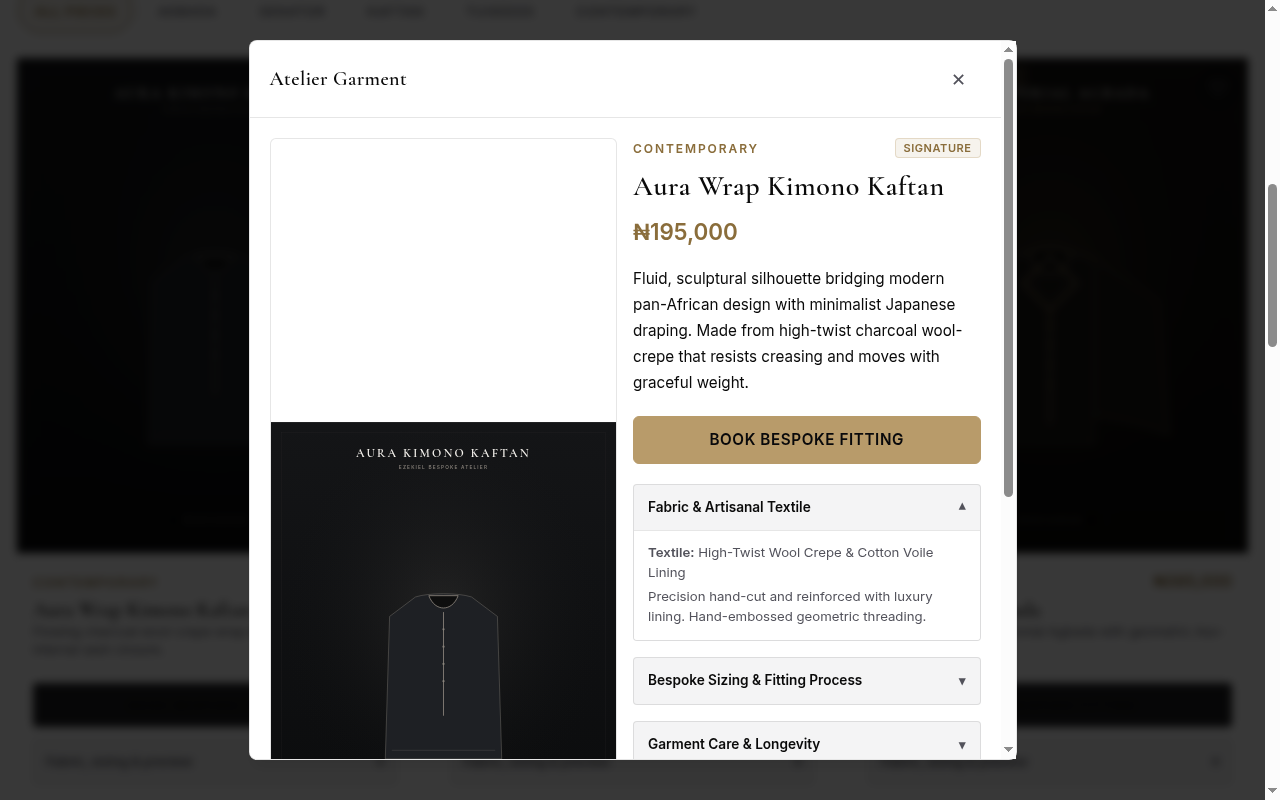
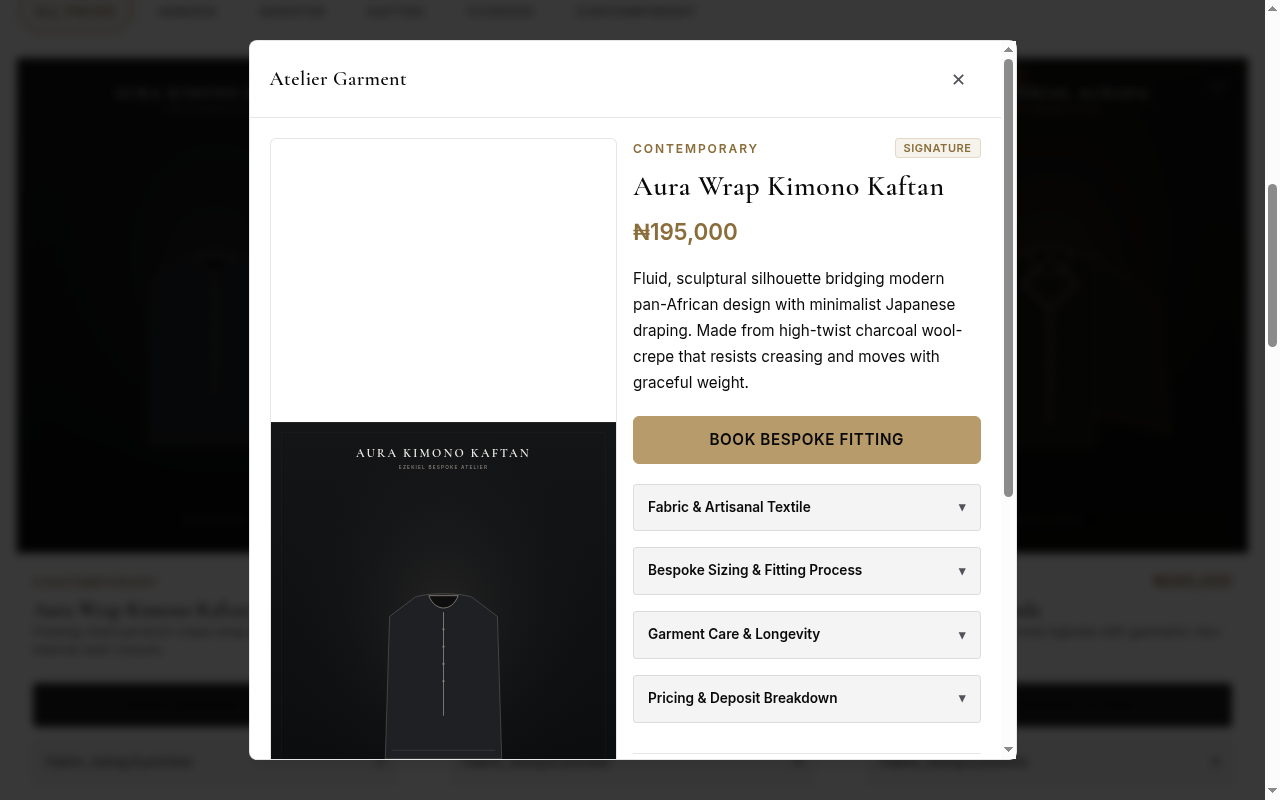
feat(ui): mobile-first progressive disclosure per Sanni review

Changed region(s): [[0.5, 0.6875, 0.7188, 0.8125], [0.5, 0.8438, 0.6875, 0.875], [0.5, 0.9062, 0.6562, 0.9375]]

diff --git a/admin.html b/admin.html
@@ -321,9 +321,31 @@
             </div>
           </details>
 
-          <button class="btn btn-primary btn-sm ui-btn ui-btn-primary ui-btn-sm" id="btnRecordManualOrder" onclick="document.getElementById('newOrderModal').classList.add('open')">
+          <!-- Desktop Record Order Button -->
+          <button class="btn btn-primary btn-sm ui-btn ui-btn-primary ui-btn-sm orders-desktop-action-btn" id="btnRecordManualOrder" onclick="document.getElementById('newOrderModal').classList.add('open')">
             + Record Manual Order
           </button>
+
+          <!-- Mobile Overflow Actions Disclosure -->
+          <details class="admin-actions-disclosure" id="orderActionsDisclosure">
+            <summary class="admin-actions-summary">
+              <svg width="15" height="15" viewBox="0 0 24 24" fill="none" stroke="currentColor" stroke-width="2">
+                <circle cx="12" cy="12" r="1.5"></circle>
+                <circle cx="19" cy="12" r="1.5"></circle>
+                <circle cx="5" cy="12" r="1.5"></circle>
+              </svg>
+              <span>Actions</span>
+              <span class="disclosure-arrow">▾</span>
+            </summary>
+            <div class="admin-actions-body">
+              <button type="button" class="btn btn-primary btn-sm ui-btn ui-btn-primary ui-btn-sm" style="width: 100%; min-height: 44px;" onclick="document.getElementById('newOrderModal').classList.add('open')">
+                + Record Manual Order
+              </button>
+              <button type="button" class="btn btn-outline btn-sm ui-btn ui-btn-outline ui-btn-sm" style="width: 100%; min-height: 44px;" onclick="document.getElementById('exportBackupBtn')?.click()">
+                Export Records JSON
+              </button>
+            </div>
+          </details>
         </div>
 
         <div class="ui-table-container">

diff --git a/src/styles/main.css b/src/styles/main.css
@@ -2079,7 +2079,44 @@ body.admin-body .orders-table tbody tr:hover {
   flex-wrap: wrap;
 }
 
+.admin-actions-disclosure {
+  display: inline-block;
+}
+
+.admin-actions-summary {
+  cursor: pointer;
+  display: inline-flex;
+  align-items: center;
+  gap: 8px;
+  padding: 0 16px;
+  min-height: 44px;
+  background: var(--card);
+  border: 1px solid var(--border);
+  border-radius: var(--radius);
+  font-size: 0.85rem;
+  font-weight: 500;
+  color: var(--foreground);
+  user-select: none;
+}
+
+.admin-actions-summary::marker,
+.admin-actions-summary::-webkit-details-marker {
+  display: none;
+}
+
+.admin-actions-body {
+  display: flex;
+  flex-direction: column;
+  gap: 8px;
+}
+
 @media (min-width: 769px) {
+  .admin-actions-disclosure {
+    display: none !important;
+  }
+  .orders-desktop-action-btn {
+    display: inline-flex !important;
+  }
   .admin-filters-disclosure[open],
   .admin-filters-disclosure {
     display: block;
@@ -2093,6 +2130,26 @@ body.admin-body .orders-table tbody tr:hover {
 }
 
 @media (max-width: 768px) {
+  .orders-desktop-action-btn {
+    display: none !important;
+  }
+  .admin-actions-disclosure {
+    display: block;
+    width: 100%;
+  }
+  .admin-actions-summary {
+    width: 100%;
+    justify-content: space-between;
+  }
+  .admin-actions-body {
+    width: 100%;
+    background: var(--secondary);
+    border: 1px solid var(--border);
+    border-radius: var(--radius);
+    padding: 12px;
+    margin-top: 8px;
+    box-sizing: border-box;
+  }
   .admin-filters-disclosure {
     width: 100%;
   }

diff --git a/src/public/app.js b/src/public/app.js
@@ -657,7 +657,7 @@ function openDetailModal(design) {
 
           <!-- Progressive Disclosure Accordions: Sizing, Fabric, Care & Pricing Breakdowns -->
           <div style="display: flex; flex-direction: column; gap: 8px;">
-            <details class="detail-accordion" open>
+            <details class="detail-accordion">
               <summary class="detail-accordion-summary">
                 <span>Fabric & Artisanal Textile</span>
                 <span class="disclosure-arrow">▾</span>

diff --git a/scripts/prerender.js b/scripts/prerender.js
@@ -244,7 +244,7 @@ for (const d of designs) {
 
         <!-- Progressive Disclosure Accordions -->
         <div style="margin-bottom: 24px;">
-          <details open>
+          <details>
             <summary>
               <span>Fabric & Textile Specification</span>
               <span>▾</span>

diff --git a/vite.config.js b/vite.config.js
@@ -2,6 +2,11 @@ import { resolve } from 'node:path';
 import { defineConfig } from 'vite';
 
 export default defineConfig({
+  server: {
+    fs: {
+      allow: ['..', '/workspace/apparel']
+    }
+  },
   build: {
     manifest: true,
     target: 'es2022',
